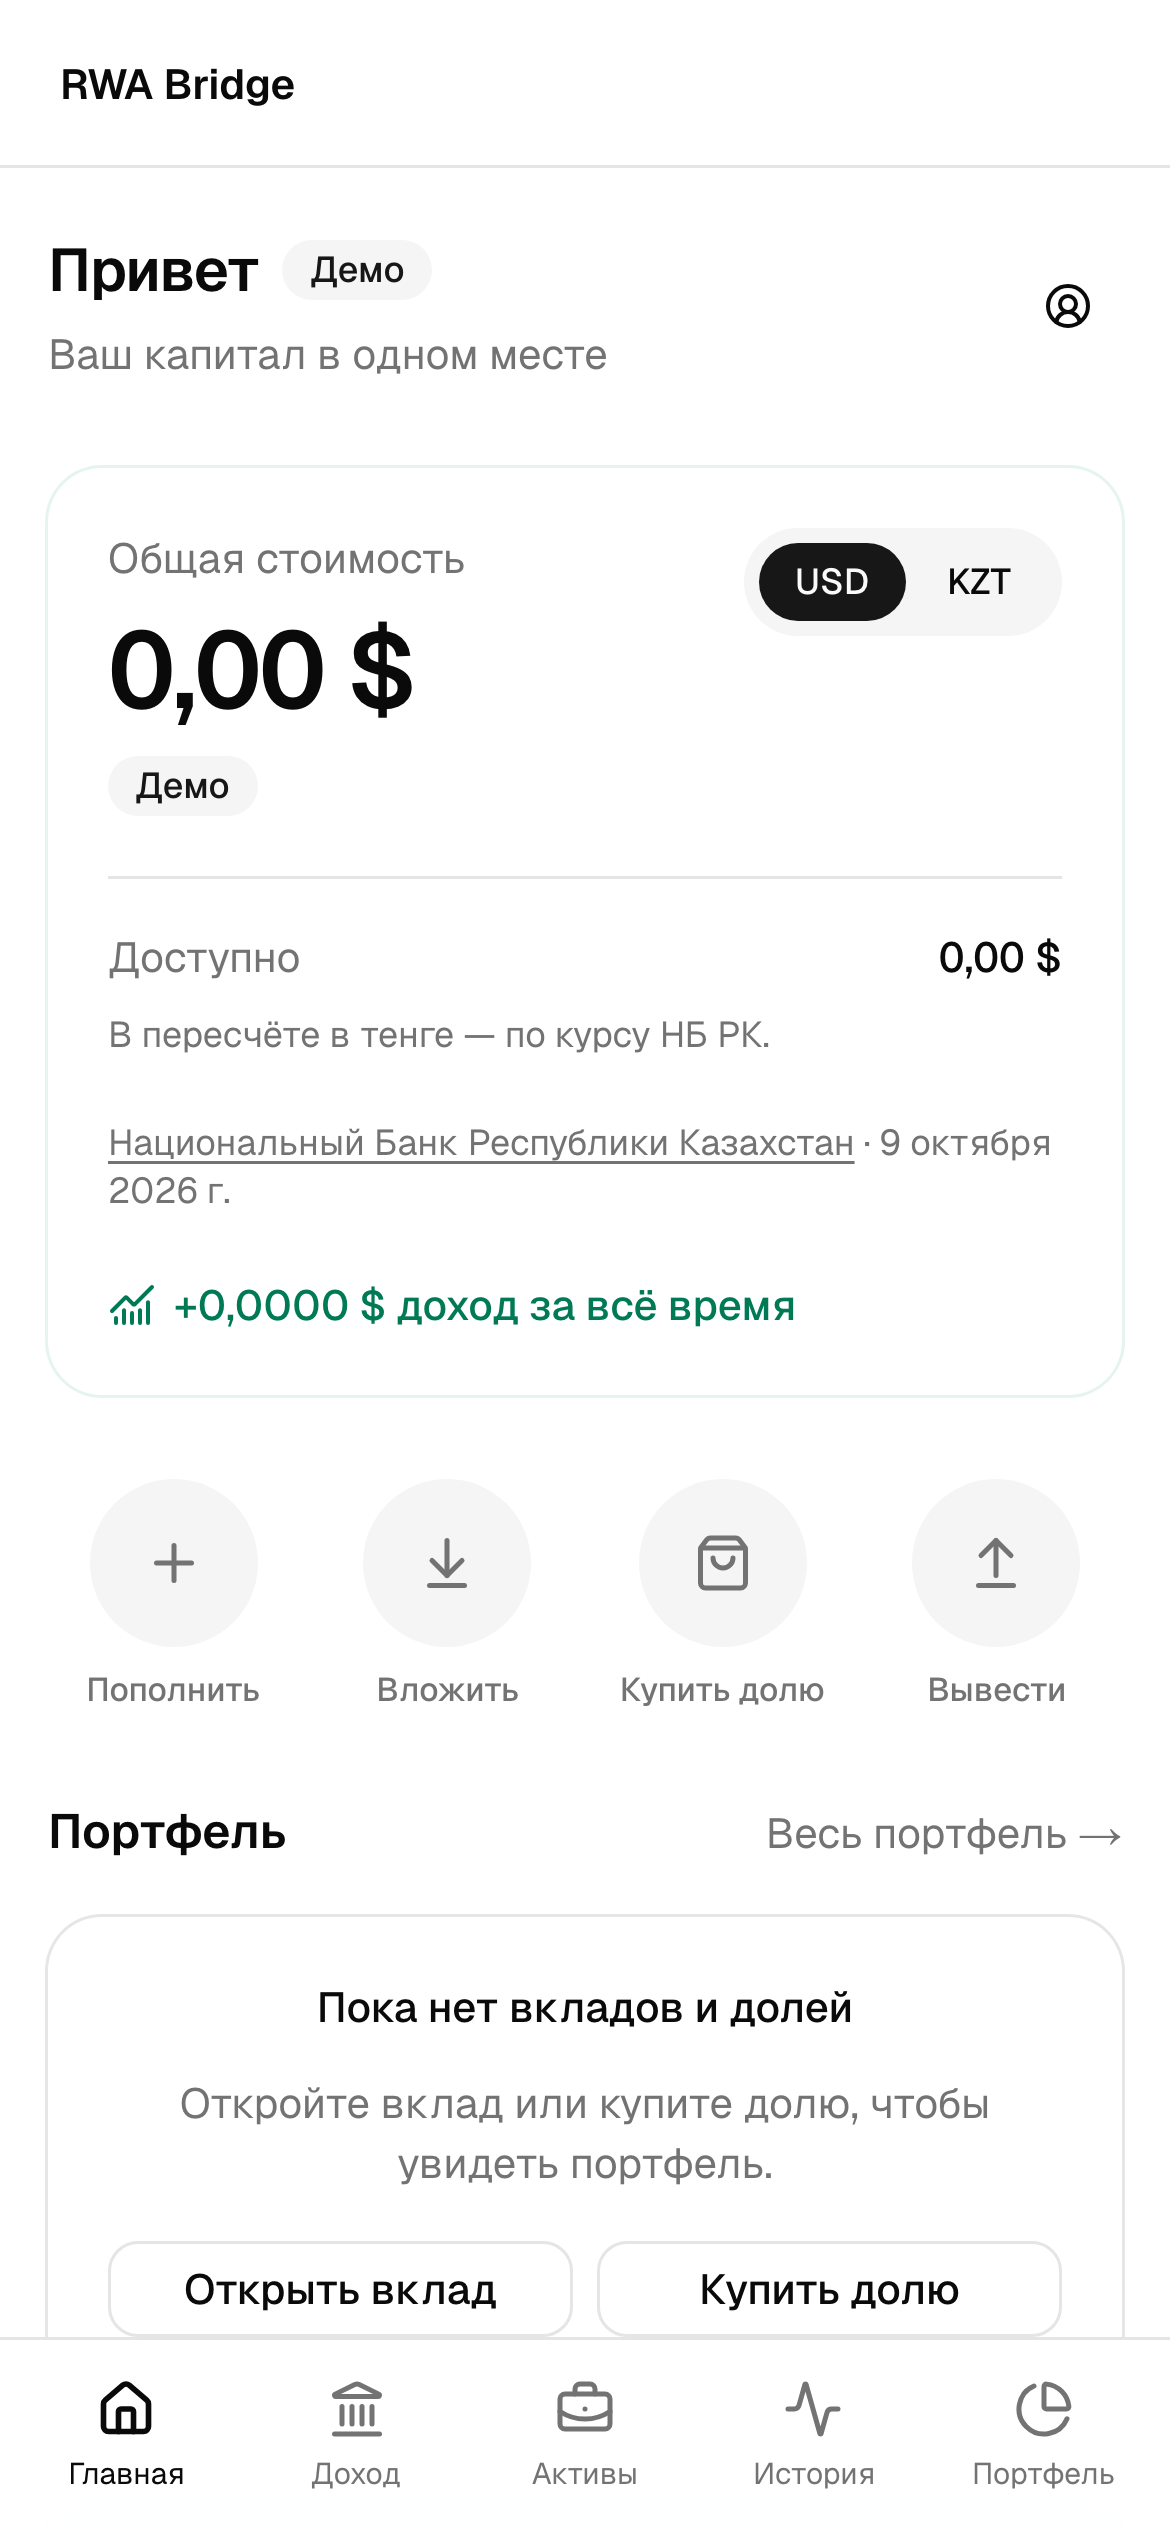
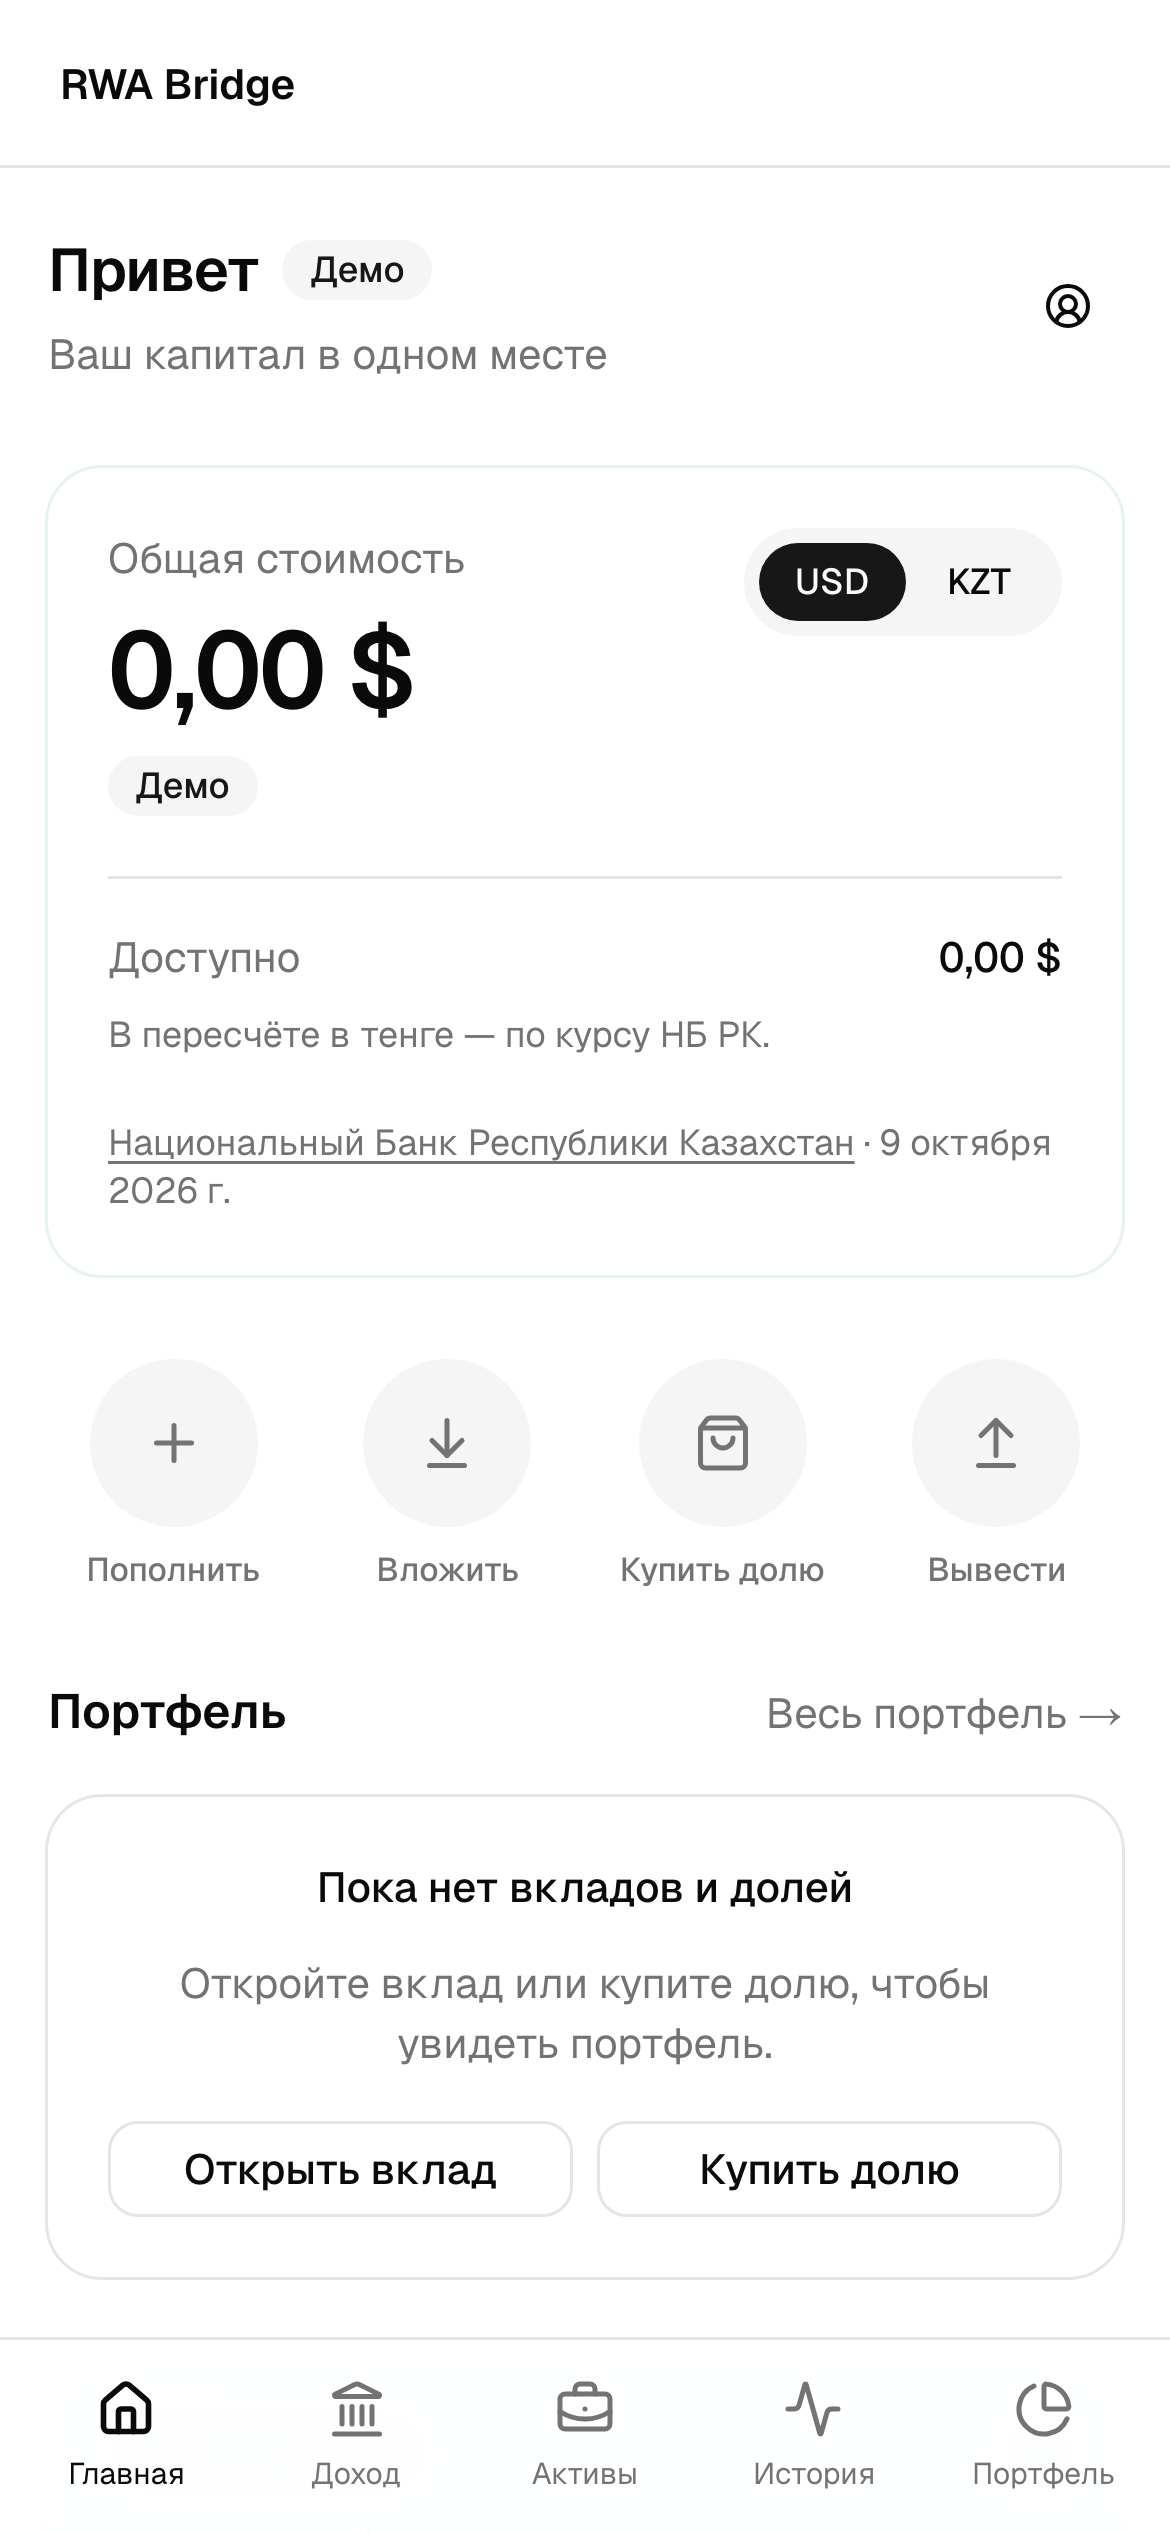
Add phone screenshots of the live app and update tasks

diff --git a/TASKS.md b/TASKS.md
@@ -18,17 +18,17 @@
 - [ ] B2. Проверка всех потоков на проде: банкомат, вклад, вывод, доля, Transak, MoonPay, демо-банк
 
 ### C. Материалы для сдачи
-- [ ] C1. README для жюри (англ.): что это, как работает, адреса в сети, как проверить
+- [x] C1. README для жюри (англ.): что это, как работает, адреса в сети, как проверить
 - [x] C2. docs/: пользовательские сценарии, архитектура и денежные потоки (диаграммы)
 - [x] C3. Питч-дек (https://claude.ai/artifact/QhKVxfyxwQCtKX77ScLwtS)
-- [x] C4. Сценарий демо-видео (docs/demo-script.md); скриншоты — после полировки
+- [x] C4. Сценарий демо-видео (docs/demo-script.md), скриншоты docs/screenshots (светлая и тёмная тема)
 - [x] C5. Обновить тексты формы Colosseum (портфель в сети, ссылка на сайт)
 - [ ] C6. Публичный GitHub-репозиторий (нужно разрешение владельца)
 
 ## В работе
 
 
-- [ ] A4/B2: прохождение сценариев на проде; C1: README для жюри
+- [ ] A4/B2: прохождение сценариев с входом на проде (владелец)
 
 ## Ждёт владельца
 
@@ -49,6 +49,8 @@
 - [ ] Название проекта (варианты предложены, не выбрано)
 
 ## Сделано
+
+- [x] Живые данные с первого кадра, README для жюри (англ.), скриншоты, инструмент скриншотов
 
 - [x] Пакет продукта: полировка, письма через Gmail (проверено тестовым письмом), PWA, MoonPay с двумя IP, состояния загрузки — `4a5b2fb`, задеплоено
 - [x] Питч-дек, docs/architecture.md, docs/user-stories.md, docs/demo-script.md, обновлённые тексты формы Colosseum
